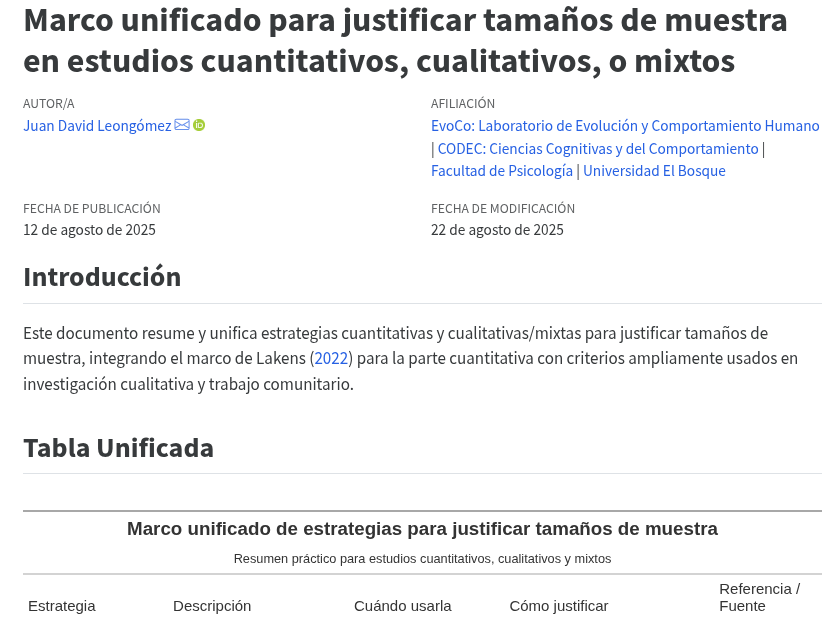
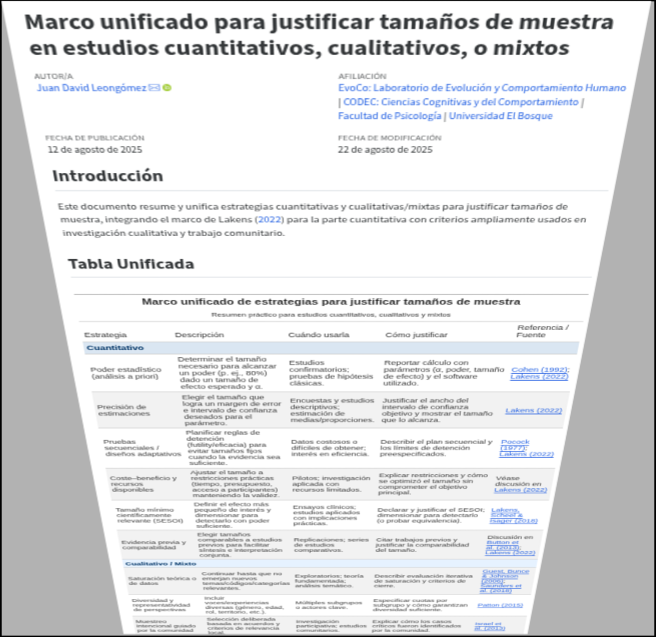
Actualizar featured image de justificacion_n

diff --git a/content/post/justificacion_n/index.md b/content/post/justificacion_n/index.md
@@ -38,7 +38,7 @@ editor_options:
 <iframe
   id="marco-unificado"
   src="https://jdleongomez.github.io/justificacion_n/"
-  style="border: none; width: 100%; height: 1800px"
+  style="border: 3px solid #ccc; border-radius: 8px; width: 100%; height: 1800px"
   frameborder="0"
   loading="lazy">
 </iframe>
